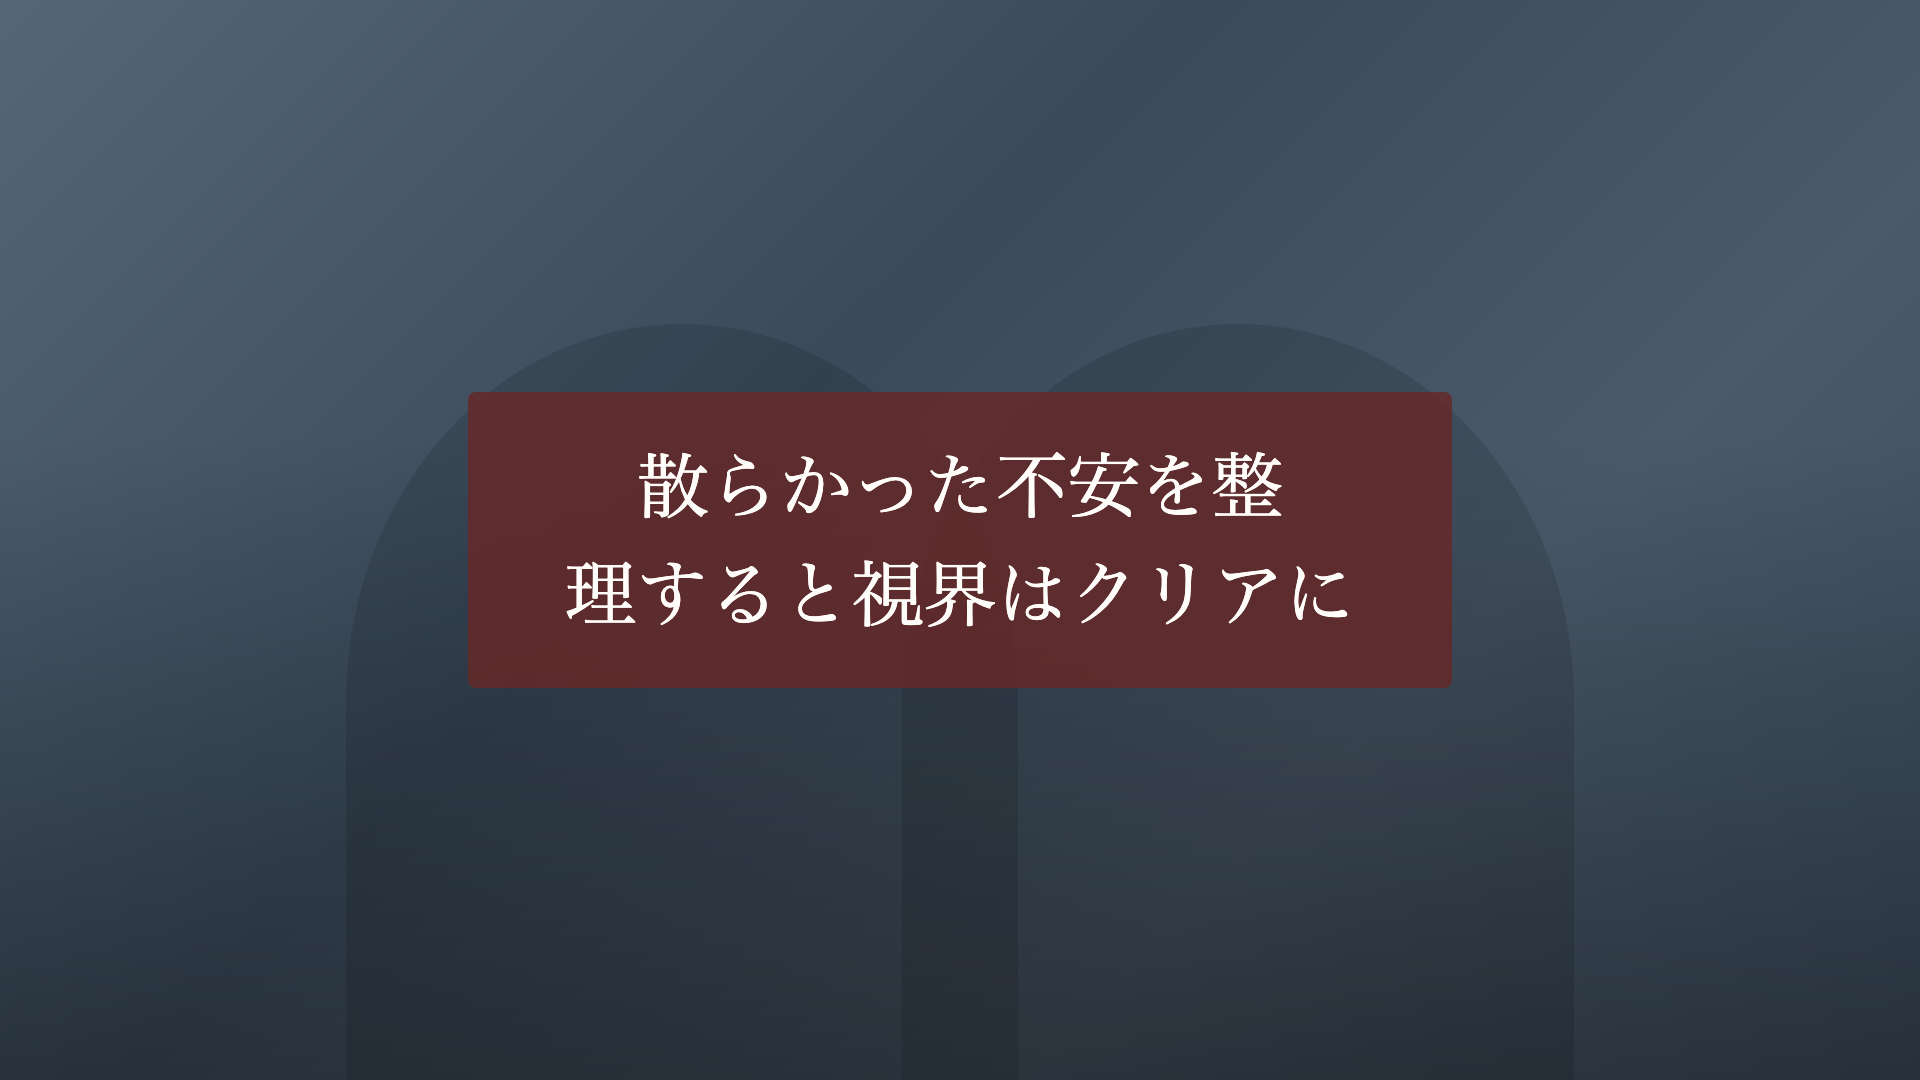
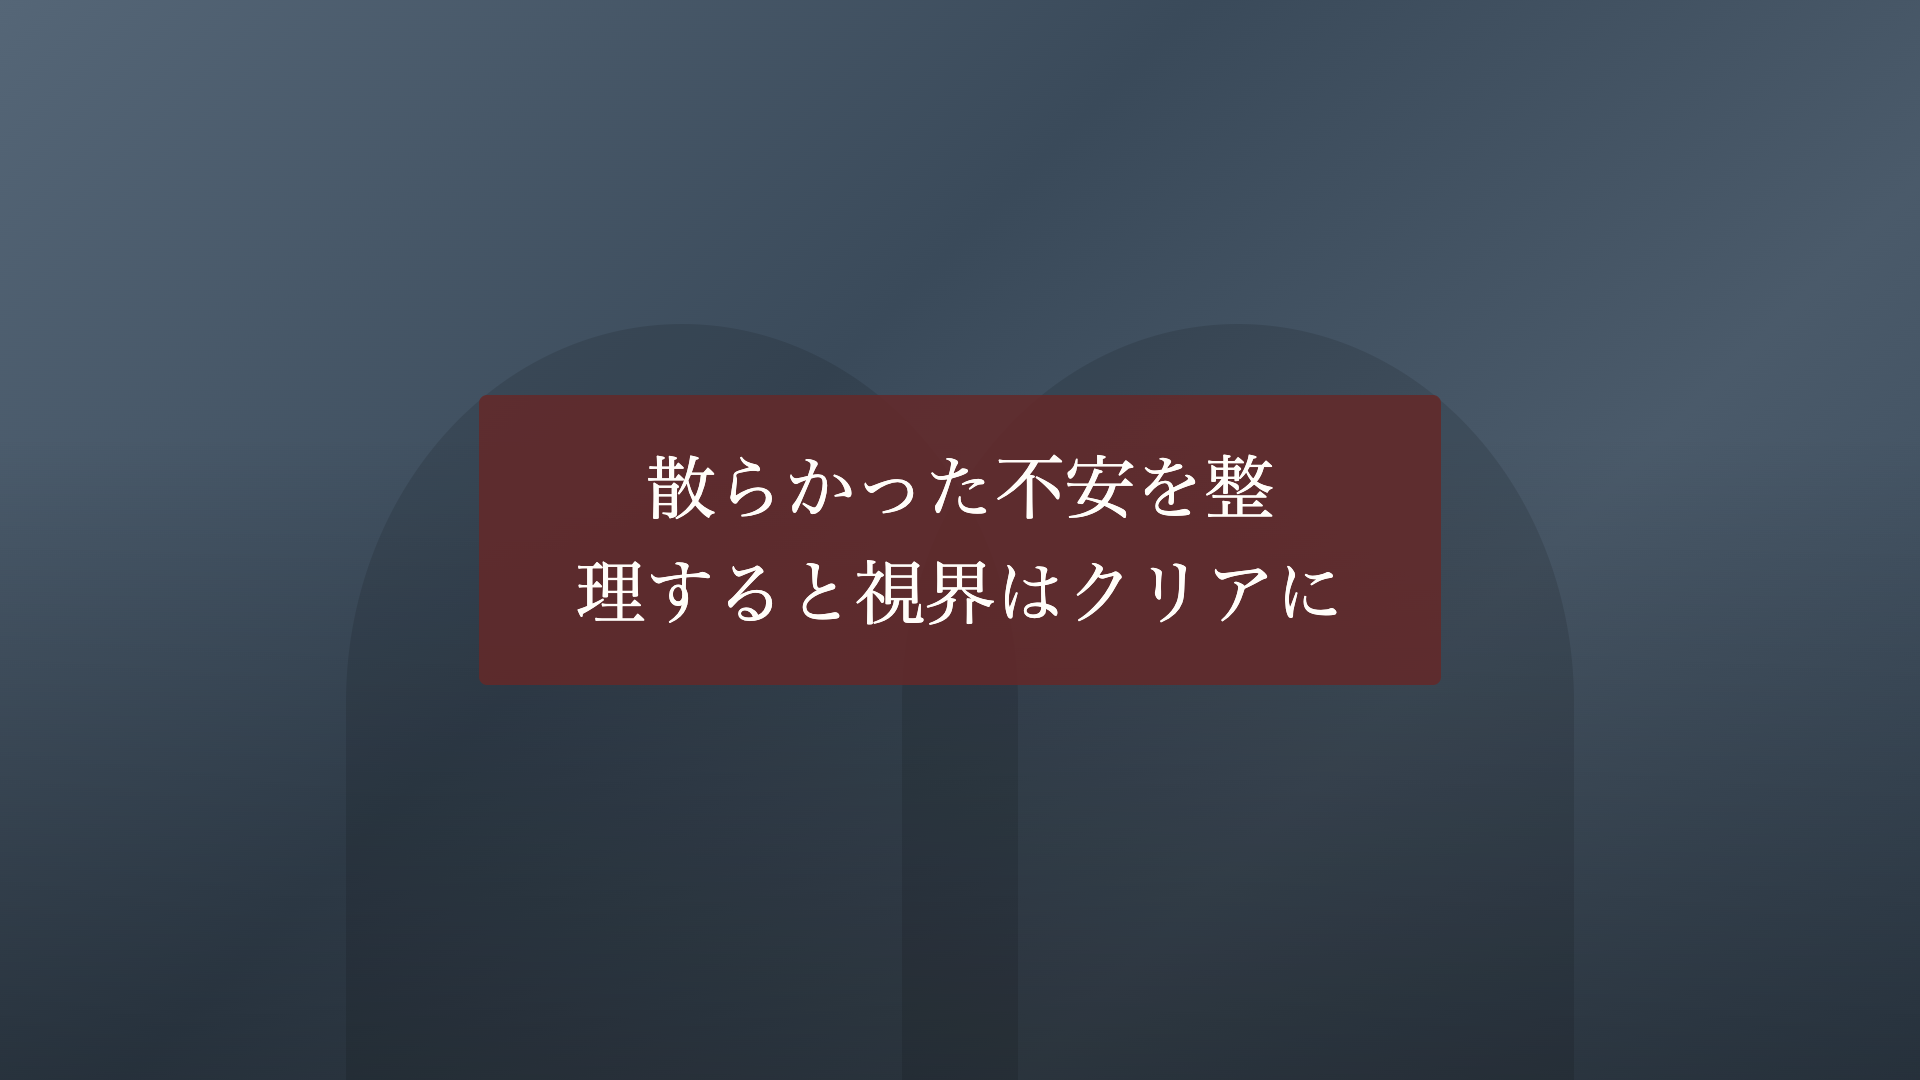
テロップサイズ固定値化（フル52/強調70/免責40px）＋全HTML例を画像化
- 映像演出仕様書.md: フル/強調/免責のサイズを範囲から固定値に変更
- telop_spec.html: 残っていたHTML例（フルテロップ/ネームバー/NG数字/統合プレビュー）を全て1920×1080 PNG画像に差し替え
- 強調テロップ画像9枚を70pxで再生成、新規10枚を追加
- 統合プレビュー強調シーン「姿勢は人生の土台」を1行表示に修正
- EP02用語解説・免責指示書のサイズを70/40px固定に追従

diff --git a/telop_spec.html b/telop_spec.html
@@ -225,7 +225,7 @@
   <table class="spec-table">
     <tr><td>フォント</td><td>ヒラギノ角ゴ ProN → Noto Sans JP（フォールバック）</td></tr>
     <tr><td>ウェイト</td><td class="highlight">Medium(500)固定。Bold(700)禁止</td></tr>
-    <tr><td>サイズ</td><td>48-54px（実寸1920×1080基準）</td></tr>
+    <tr><td>サイズ</td><td class="highlight">52px固定（実寸1920×1080基準／全動画統一）</td></tr>
     <tr><td>色</td><td>ウォームホワイト #FFFDF9</td></tr>
     <tr><td>縁取り</td><td>黒 2px</td></tr>
     <tr><td>影</td><td>ドロップシャドウ rgba(0,0,0,0.5)</td></tr>
@@ -233,48 +233,21 @@
     <tr><td>行数</td><td class="highlight">1行のみ。2行表示禁止。長い文は分割して順次表示</td></tr>
   </table>
 
-  <!-- 48px -->
-  <div class="video-frame">
-    <div class="frame-label">48px — 標準</div>
-    <div class="person person-l"></div>
-    <div class="person person-r"></div>
-    <div class="watermark">登録</div>
-    <div class="telop-full" style="font-size: 4.8cqi;">
-      50代の"今"を整えるかどうかで
-    </div>
+  <div class="image-frame">
+    <div class="frame-label">標準（52px）</div>
+    <img src="telop_images/full_01_standard.png" alt="フルテロップ標準例">
   </div>
 
-  <!-- 54px -->
-  <div class="video-frame">
-    <div class="frame-label">54px — やや大きめ</div>
-    <div class="person person-l"></div>
-    <div class="person person-r"></div>
-    <div class="watermark">登録</div>
-    <div class="telop-full" style="font-size: 5.4cqi;">
-      その後の10年が大きく変わります
-    </div>
-  </div>
+  <p class="note" style="margin-top: 16px;">長文の分割表示例（1文を2つの発言に分けて順次表示）：</p>
 
-  <p class="note" style="margin-top: 16px;">長文の分割表示例：</p>
-
-  <div class="video-frame">
+  <div class="image-frame">
     <div class="frame-label">分割 1/2</div>
-    <div class="person person-l"></div>
-    <div class="person person-r"></div>
-    <div class="watermark">登録</div>
-    <div class="telop-full" style="font-size: 4.8cqi;">
-      散らかった不安を整理すると
-    </div>
+    <img src="telop_images/full_02_split1.png" alt="長文分割表示1/2">
   </div>
 
-  <div class="video-frame">
+  <div class="image-frame">
     <div class="frame-label">分割 2/2</div>
-    <div class="person person-l"></div>
-    <div class="person person-r"></div>
-    <div class="watermark">登録</div>
-    <div class="telop-full" style="font-size: 4.8cqi;">
-      視界は驚くほどクリアになります
-    </div>
+    <img src="telop_images/full_03_split2.png" alt="長文分割表示2/2">
   </div>
 </div>
 
@@ -287,7 +260,7 @@
 
   <table class="spec-table">
     <tr><td>フォント</td><td>ヒラギノ明朝 ProN → Noto Serif JP（フォールバック）</td></tr>
-    <tr><td>サイズ</td><td>64-72px</td></tr>
+    <tr><td>サイズ</td><td class="highlight">70px固定（フル52pxと1:1.35比で階層明確化／全動画統一）</td></tr>
     <tr><td>色</td><td>ウォームホワイト #FFFDF9（通常）/ ゴールド #C5A059（特に重要）</td></tr>
     <tr><td>背景</td><td>半透明ディープモーブ帯 rgba(43,40,80,0.85)</td></tr>
     <tr><td>位置</td><td>画面中央 or やや上 or 画面下中央 （OPは画面中央やや上）</td></tr>
@@ -362,42 +335,14 @@
     <tr><td>表示</td><td>ゲスト初登場時＋シーン切り替え時に再表示。4-5秒</td></tr>
   </table>
 
-  <!-- ゲスト -->
-  <div class="video-frame">
+  <div class="image-frame">
     <div class="frame-label">ゲスト紹介＋フルテロップ</div>
-    <div class="person person-l"></div>
-    <div class="person person-r"></div>
-    <div class="namebar">
-      <div style="font-family: 'Hiragino Mincho ProN', 'Noto Serif JP', serif; font-size: 2.4cqi; font-weight: 500; color: var(--warm-white);">
-        坂本 太郎
-      </div>
-      <div style="font-family: 'Hiragino Kaku Gothic ProN', 'Noto Sans JP', sans-serif; font-size: 1.3cqi; color: var(--gold);">
-        ファイナンシャルプランナー / 資産設計アドバイザー
-      </div>
-    </div>
-    <div class="watermark">登録</div>
-    <div class="telop-full" style="font-size: 4.8cqi;">
-      はじめまして よろしくお願いします
-    </div>
+    <img src="telop_images/namebar_01_guest.png" alt="ゲスト（坂本太郎）ネームバー表示例">
   </div>
 
-  <!-- 田中さん -->
-  <div class="video-frame">
+  <div class="image-frame">
     <div class="frame-label">田中さん紹介</div>
-    <div class="person person-l"></div>
-    <div class="person person-r"></div>
-    <div class="namebar">
-      <div style="font-family: 'Hiragino Mincho ProN', 'Noto Serif JP', serif; font-size: 2.4cqi; font-weight: 500; color: var(--warm-white);">
-        田中 健太
-      </div>
-      <div style="font-family: 'Hiragino Kaku Gothic ProN', 'Noto Sans JP', sans-serif; font-size: 1.3cqi; color: var(--gold);">
-        セカプラ代表 / Second Life+
-      </div>
-    </div>
-    <div class="watermark">登録</div>
-    <div class="telop-full" style="font-size: 4.8cqi;">
-      今日はよろしくお願いします
-    </div>
+    <img src="telop_images/namebar_02_tanaka.png" alt="田中健太ネームバー表示例">
   </div>
 </div>
 
@@ -434,24 +379,14 @@
     <img src="telop_images/number_01_gold.png" alt="数字部分だけゴールドで強調した2行テロップ例">
   </div>
 
-  <div class="video-frame">
+  <div class="image-frame">
     <div class="frame-label">NG例：全角数字<span class="badge-ng">NG</span></div>
-    <div class="person person-l"></div>
-    <div class="person person-r"></div>
-    <div class="watermark">登録</div>
-    <div class="telop-full" style="font-size: 4.8cqi;">
-      月３，０００円の見直しで
-    </div>
+    <img src="telop_images/full_ng_zenkaku.png" alt="NG例：全角数字のフルテロップ">
   </div>
 
-  <div class="video-frame">
+  <div class="image-frame">
     <div class="frame-label">NG例：熟語の算用数字化<span class="badge-ng">NG</span></div>
-    <div class="person person-l"></div>
-    <div class="person person-r"></div>
-    <div class="watermark">登録</div>
-    <div class="telop-full" style="font-size: 4.8cqi;">
-      3日坊主にならないように
-    </div>
+    <img src="telop_images/full_ng_jukugo.png" alt="NG例：熟語の算用数字化">
   </div>
 
   <div class="ng-list">
@@ -472,33 +407,14 @@
   <div class="section-label">Integrated Preview</div>
   <div class="section-title">統合プレビュー — 実際の動画での見え方</div>
 
-  <!-- 通常シーン -->
-  <div class="video-frame" style="background: linear-gradient(180deg, transparent 40%, rgba(0,0,0,0.35) 100%), linear-gradient(135deg, #4a5a3a 0%, #3a4a3a 50%, #2a3a2a 100%);">
+  <div class="image-frame">
     <div class="frame-label">通常シーン：ネームバー＋フルテロップ＋登録ボタン</div>
-    <div class="person person-l" style="background: rgba(0,0,0,0.18);"></div>
-    <div class="person person-r" style="background: rgba(0,0,0,0.13);"></div>
-    <div class="namebar" style="bottom: 25%;">
-      <div style="font-family: 'Hiragino Mincho ProN', 'Noto Serif JP', serif; font-size: 2.2cqi; font-weight: 500; color: var(--warm-white);">
-        織田 先生
-      </div>
-      <div style="font-family: 'Hiragino Kaku Gothic ProN', 'Noto Sans JP', sans-serif; font-size: 1.2cqi; color: var(--gold);">
-        治療家 / 整体師
-      </div>
-    </div>
-    <div class="watermark">登録</div>
-    <div class="telop-full" style="font-size: 4.8cqi;">
-      姿勢が整うと見た目の印象が全然変わります
-    </div>
+    <img src="telop_images/integrated_01_normal.png" alt="通常シーン統合プレビュー">
   </div>
 
-  <!-- 強調シーン -->
-  <div class="video-frame" style="background: linear-gradient(180deg, transparent 40%, rgba(0,0,0,0.35) 100%), linear-gradient(135deg, #4a5a3a 0%, #3a4a3a 50%, #2a3a2a 100%);">
+  <div class="image-frame">
     <div class="frame-label">強調シーン：フルテロップ非表示</div>
-    <div class="person person-l" style="background: rgba(0,0,0,0.18);"></div>
-    <div class="person person-r" style="background: rgba(0,0,0,0.13);"></div>
-    <div class="telop-emphasis" style="font-size: 6cqi; color: var(--warm-white);">
-      姿勢は人生の土台
-    </div>
+    <img src="telop_images/integrated_02_emphasis.png" alt="強調シーン統合プレビュー">
   </div>
 </div>
 
